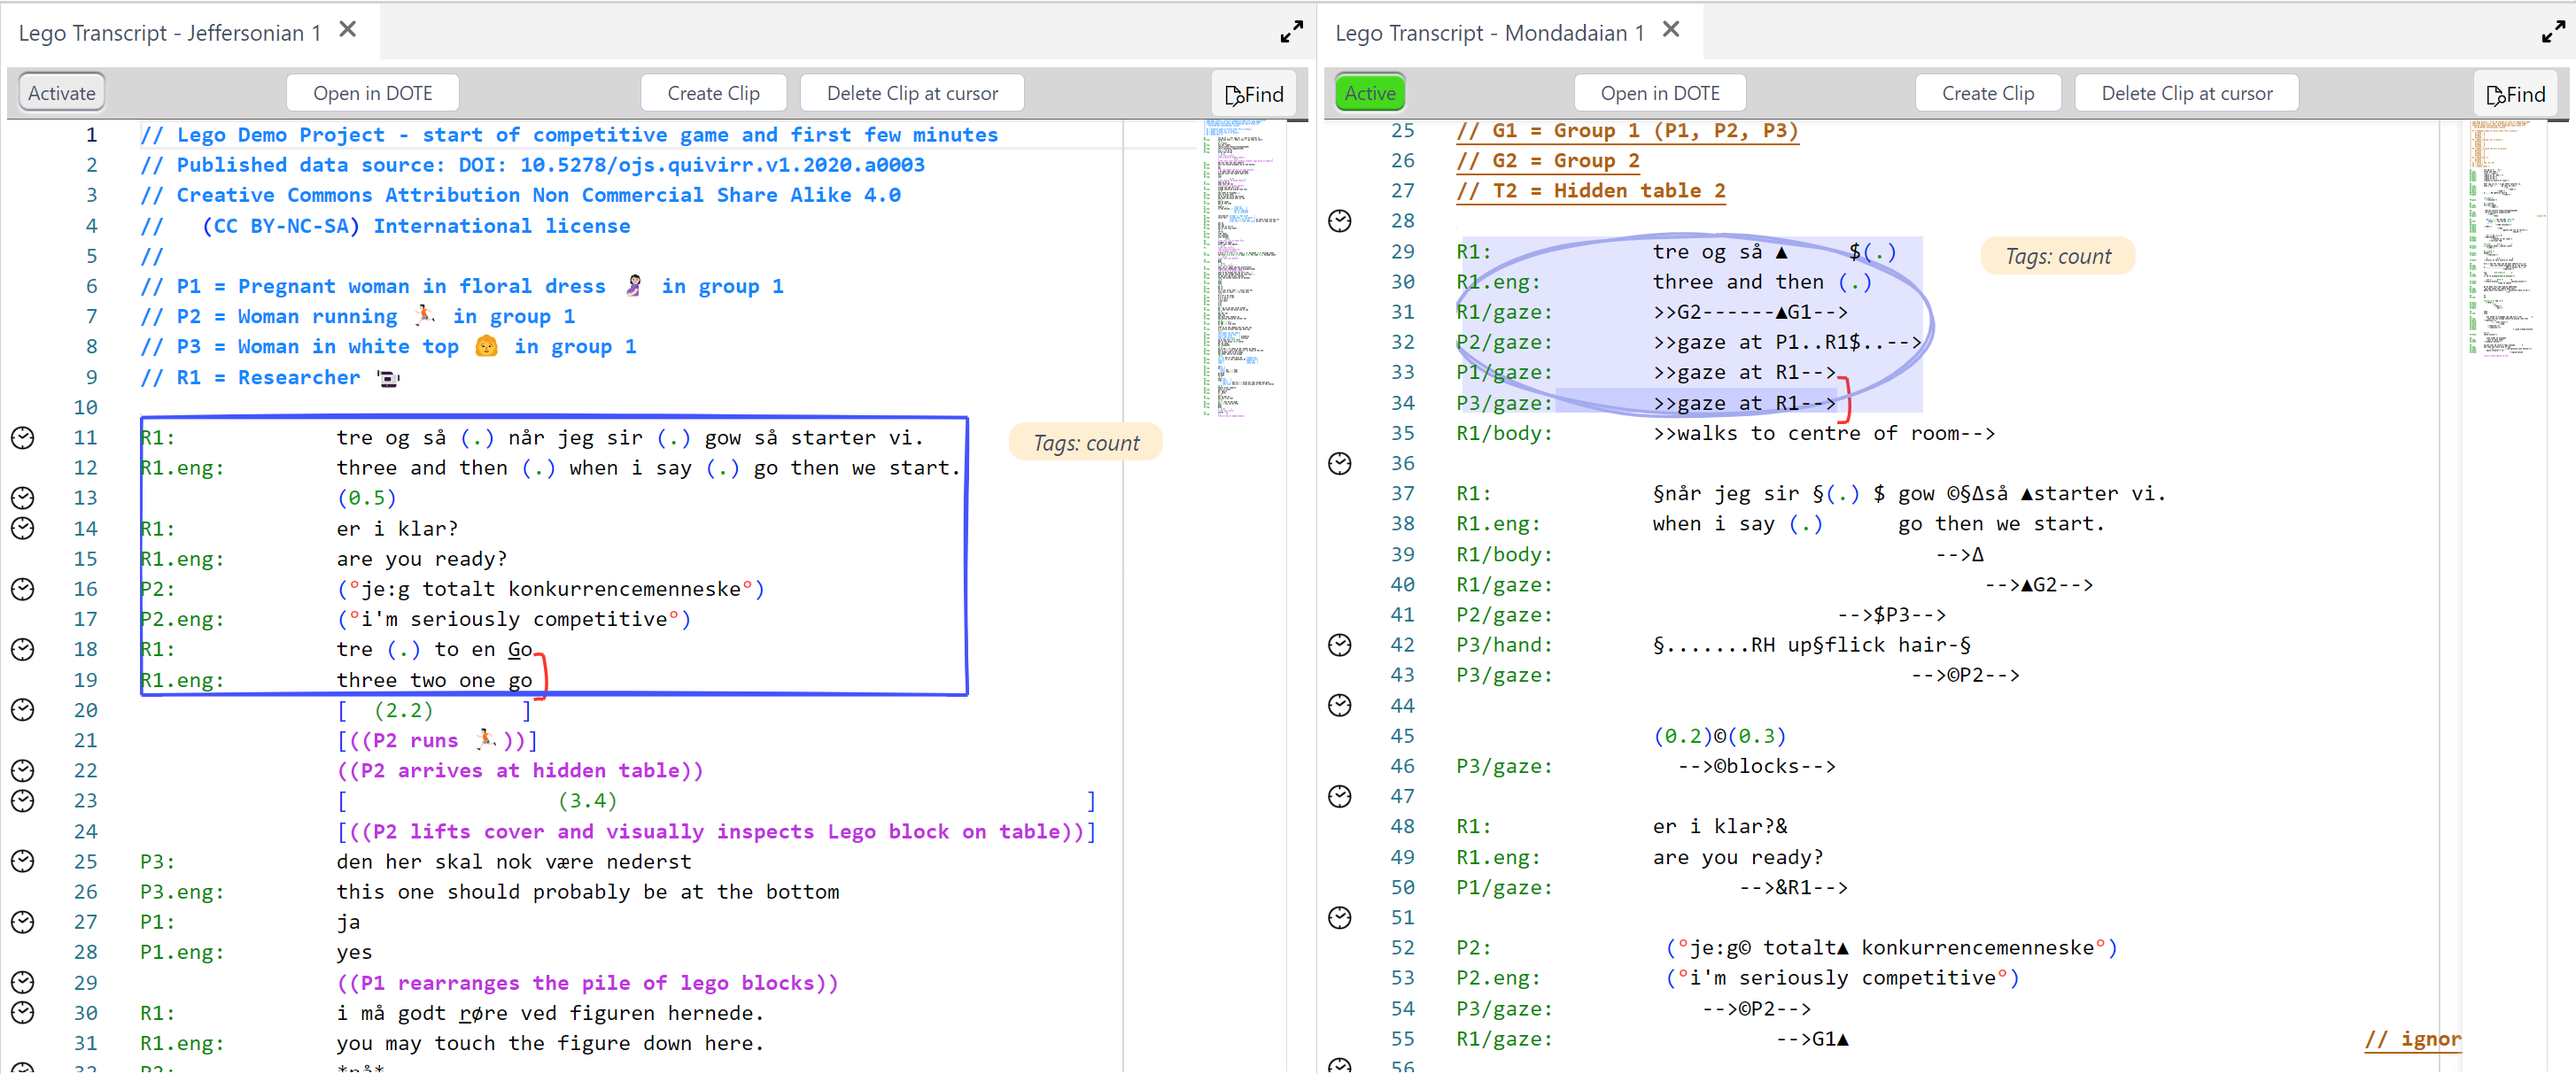
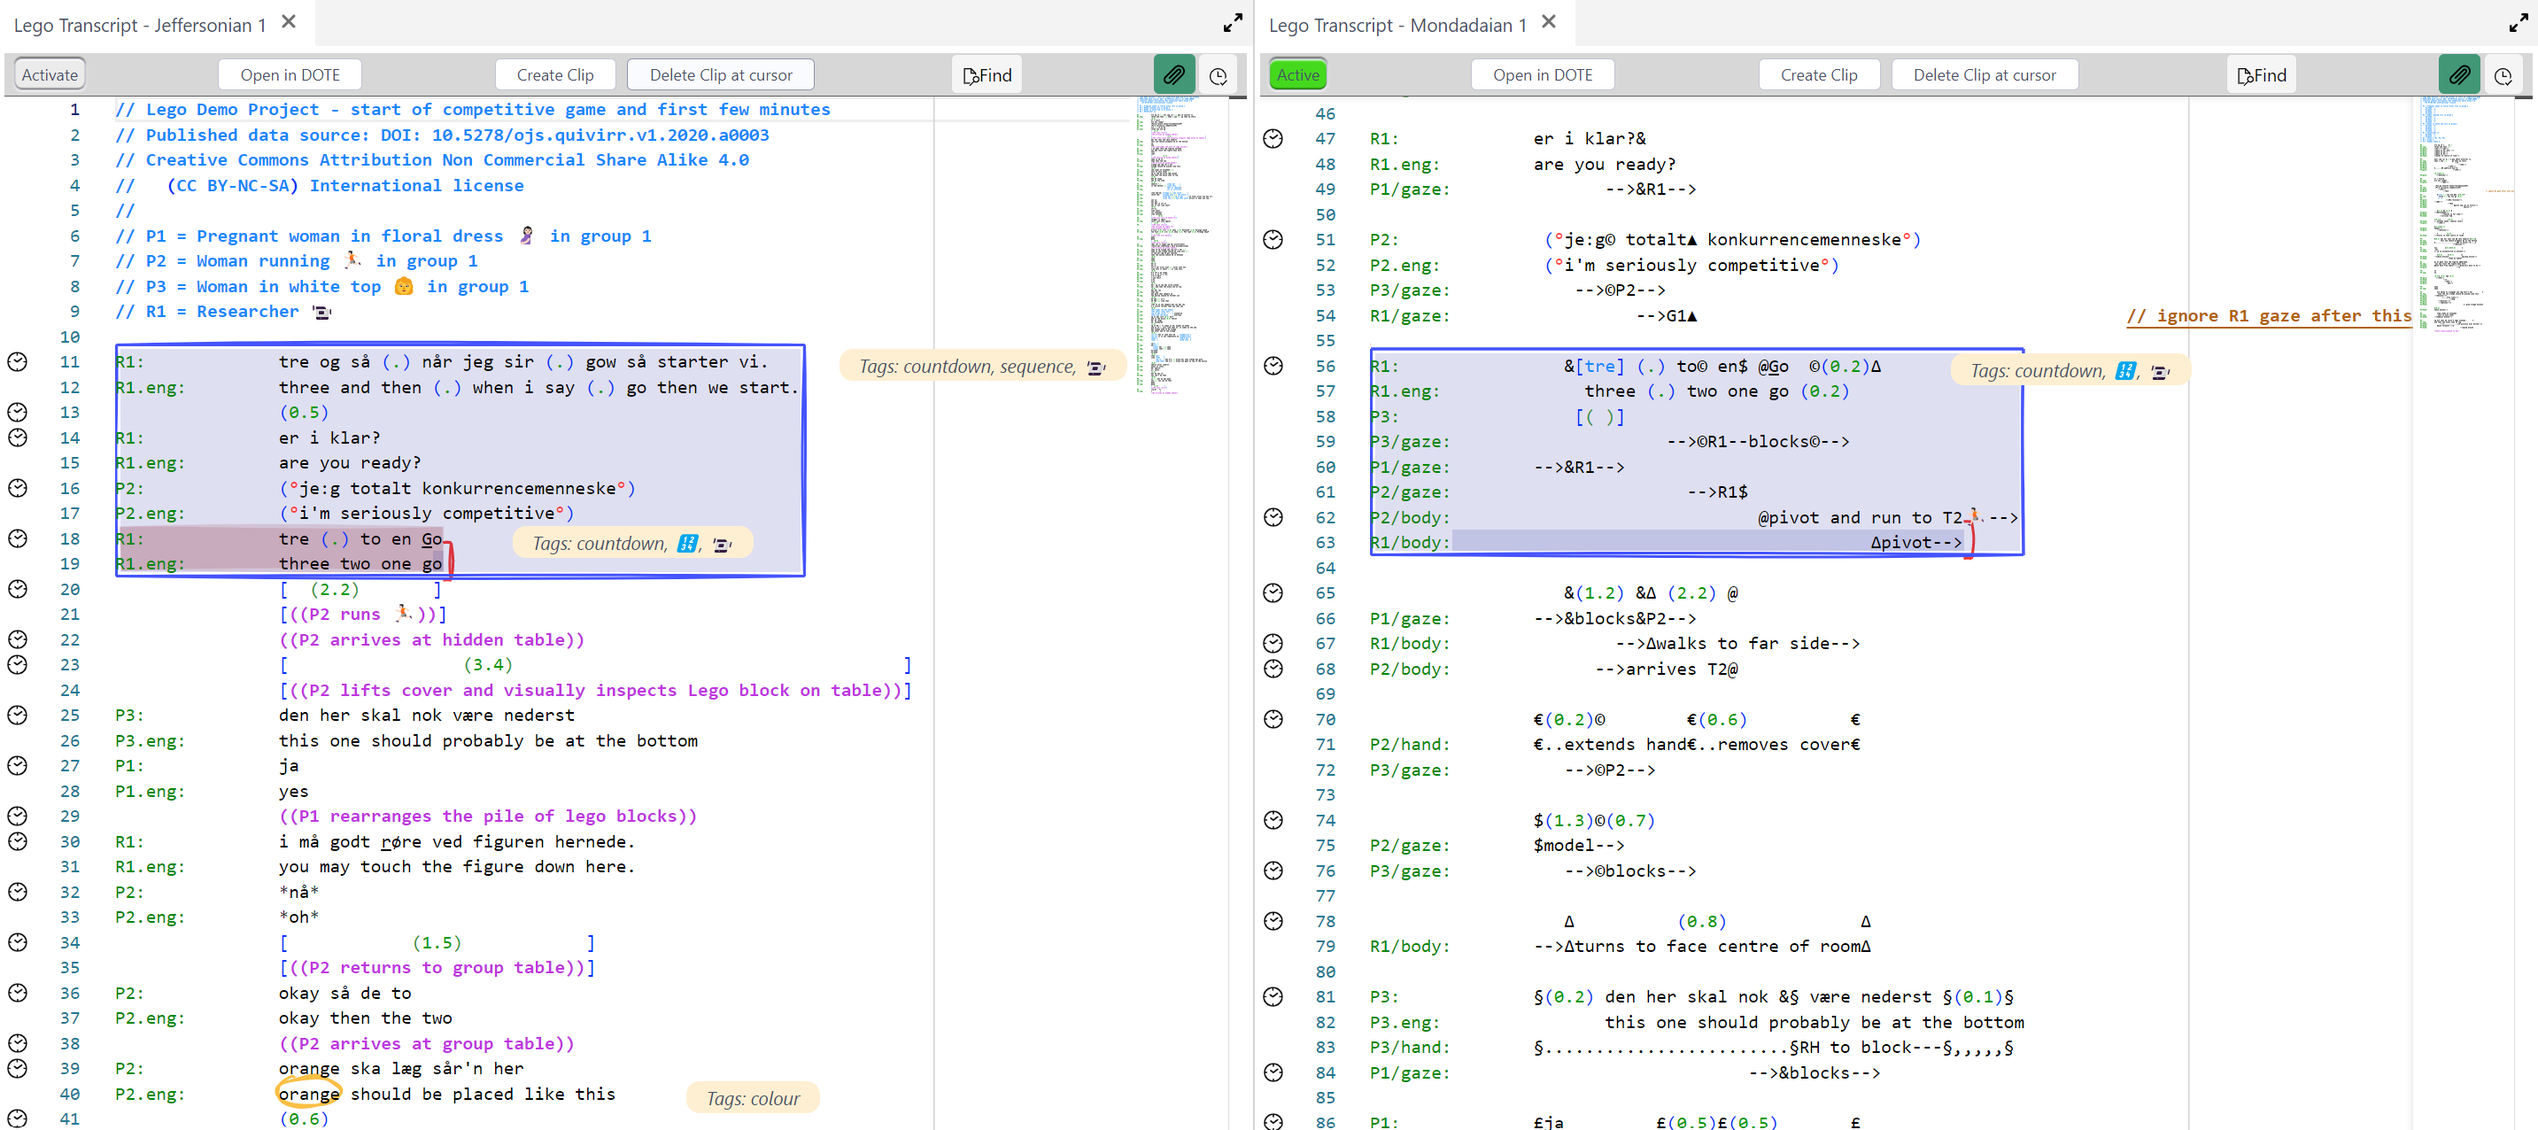
Add images and info about views in Transcript

diff --git a/transcript.md b/transcript.md
@@ -1,17 +1,26 @@
-## Transcript panel
+## Transcript panels
 
-The Transcript panel displays the currently open Transcript created in _DOTE_.
+A Transcript panel displays the currently open Transcript created in _DOTE_.
 Each Transcript panel displays a Transcript with line numbers as it was edited in _DOTE_.
 All the [sync-codes](https://bigsoftvideo.github.io/DOTE/sync-code.html) will be displayed, which index specific time-stamps in the media, thus tying the Transcript lines to the media source(s).
 
 [![Transcripts](images/transcript/transcript.png)](images/clips/transcript/transcript.png)
 
 Multiple Transcript panels can be opened in _DOTEbase_.
-Just click the TRANSCRIPT button in the menu bar.
+Just click the `TRANSCRIPT` button in the menu bar.
 A new Transcript panel will appear, which can be dragged and dropped in the UI layout.
 One of the Transcript panels must be designated as the ACTIVE one, while the others are unactivated.
 What this means is that when switching Transcripts, only the ACTIVE panel will display the Transcript that is newly selected.
 The unactivated Transcripts will still show their current contents.
 As a result, one can open multiple Transcripts across the DOTEspace at the same time and view their contents simultaneously.
+
+There are two options for each Transcript Panel that is open:
+
+[![Transcript views](images/transcript/transcript-views.png)](images/clips/transcript/transcript-views.png)
+
+1. Show/hide Transcript Clips (button).
+Clips can mess up the original Transcript, so you can hide all of them in a Transcript Panel.
+2. Follow sync-codes (button) as the video plays back.
+The sync-codes are added in the original transcript edited with _DOTE_.
 
 Use the Transcripts or the Clipping Transcripts predetermined [Layouts](layout.md) to focus on working with Transcripts and [Transcript Clipping](transcript-clip.md).
